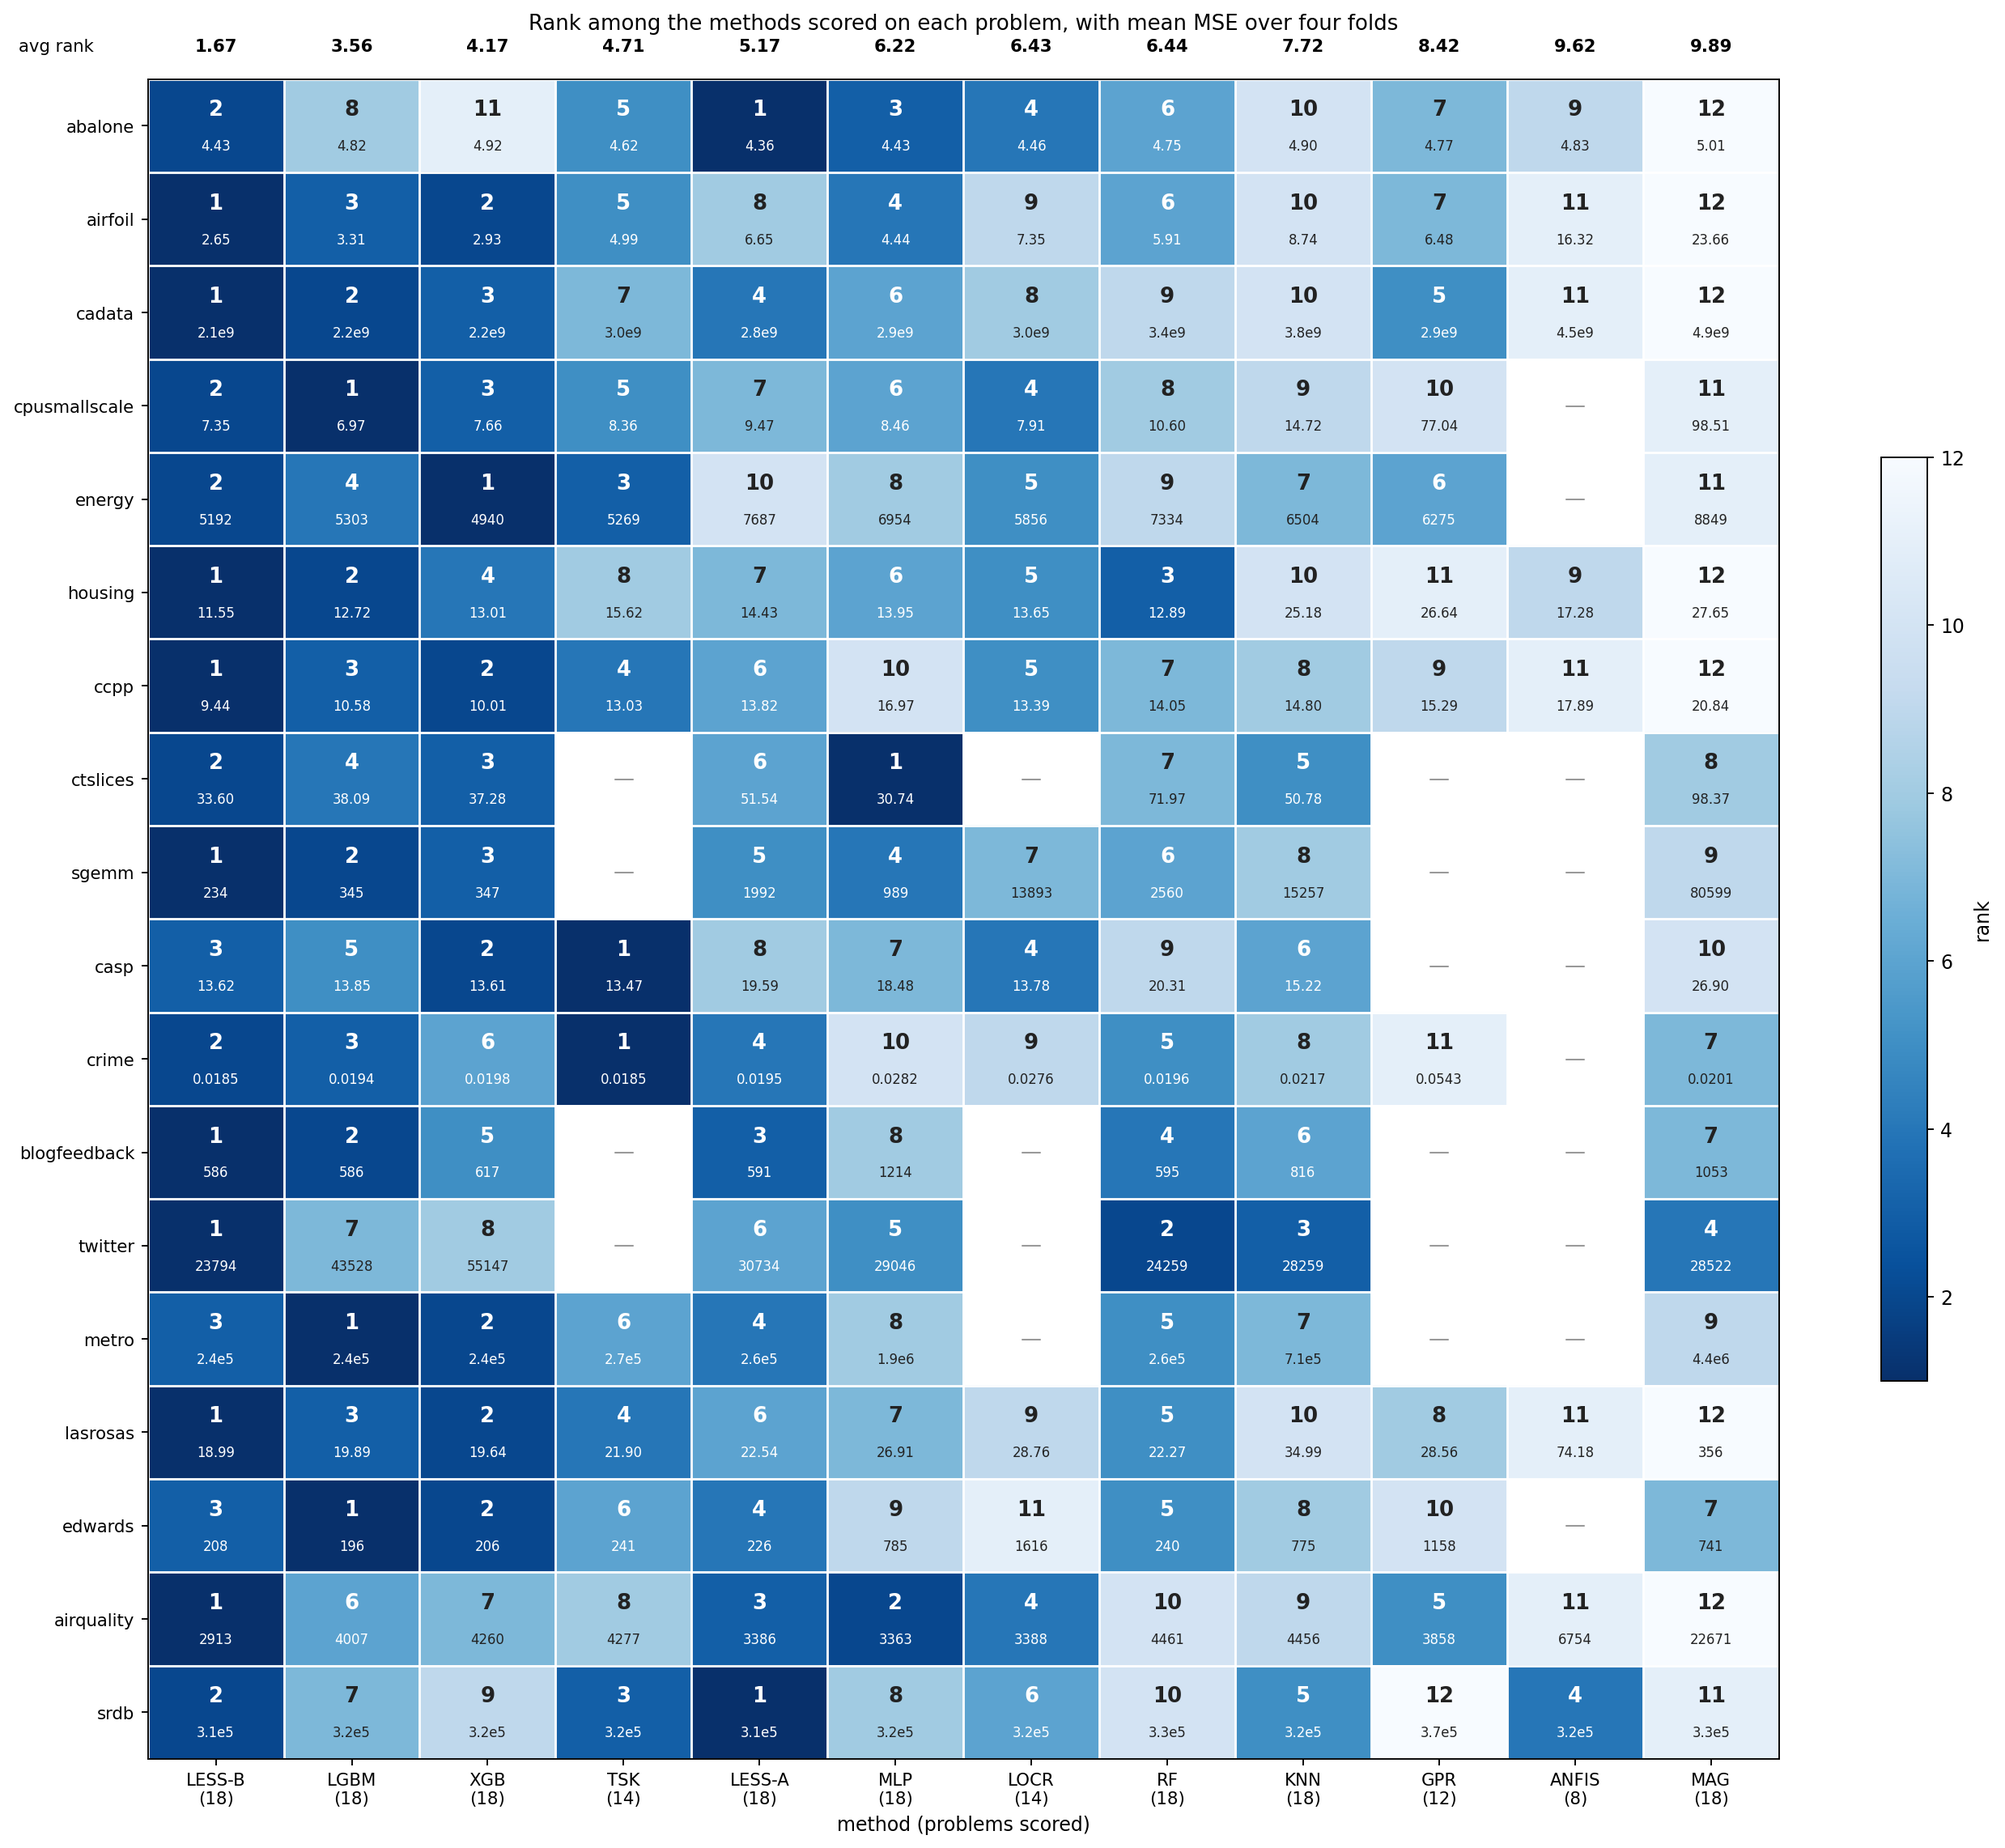
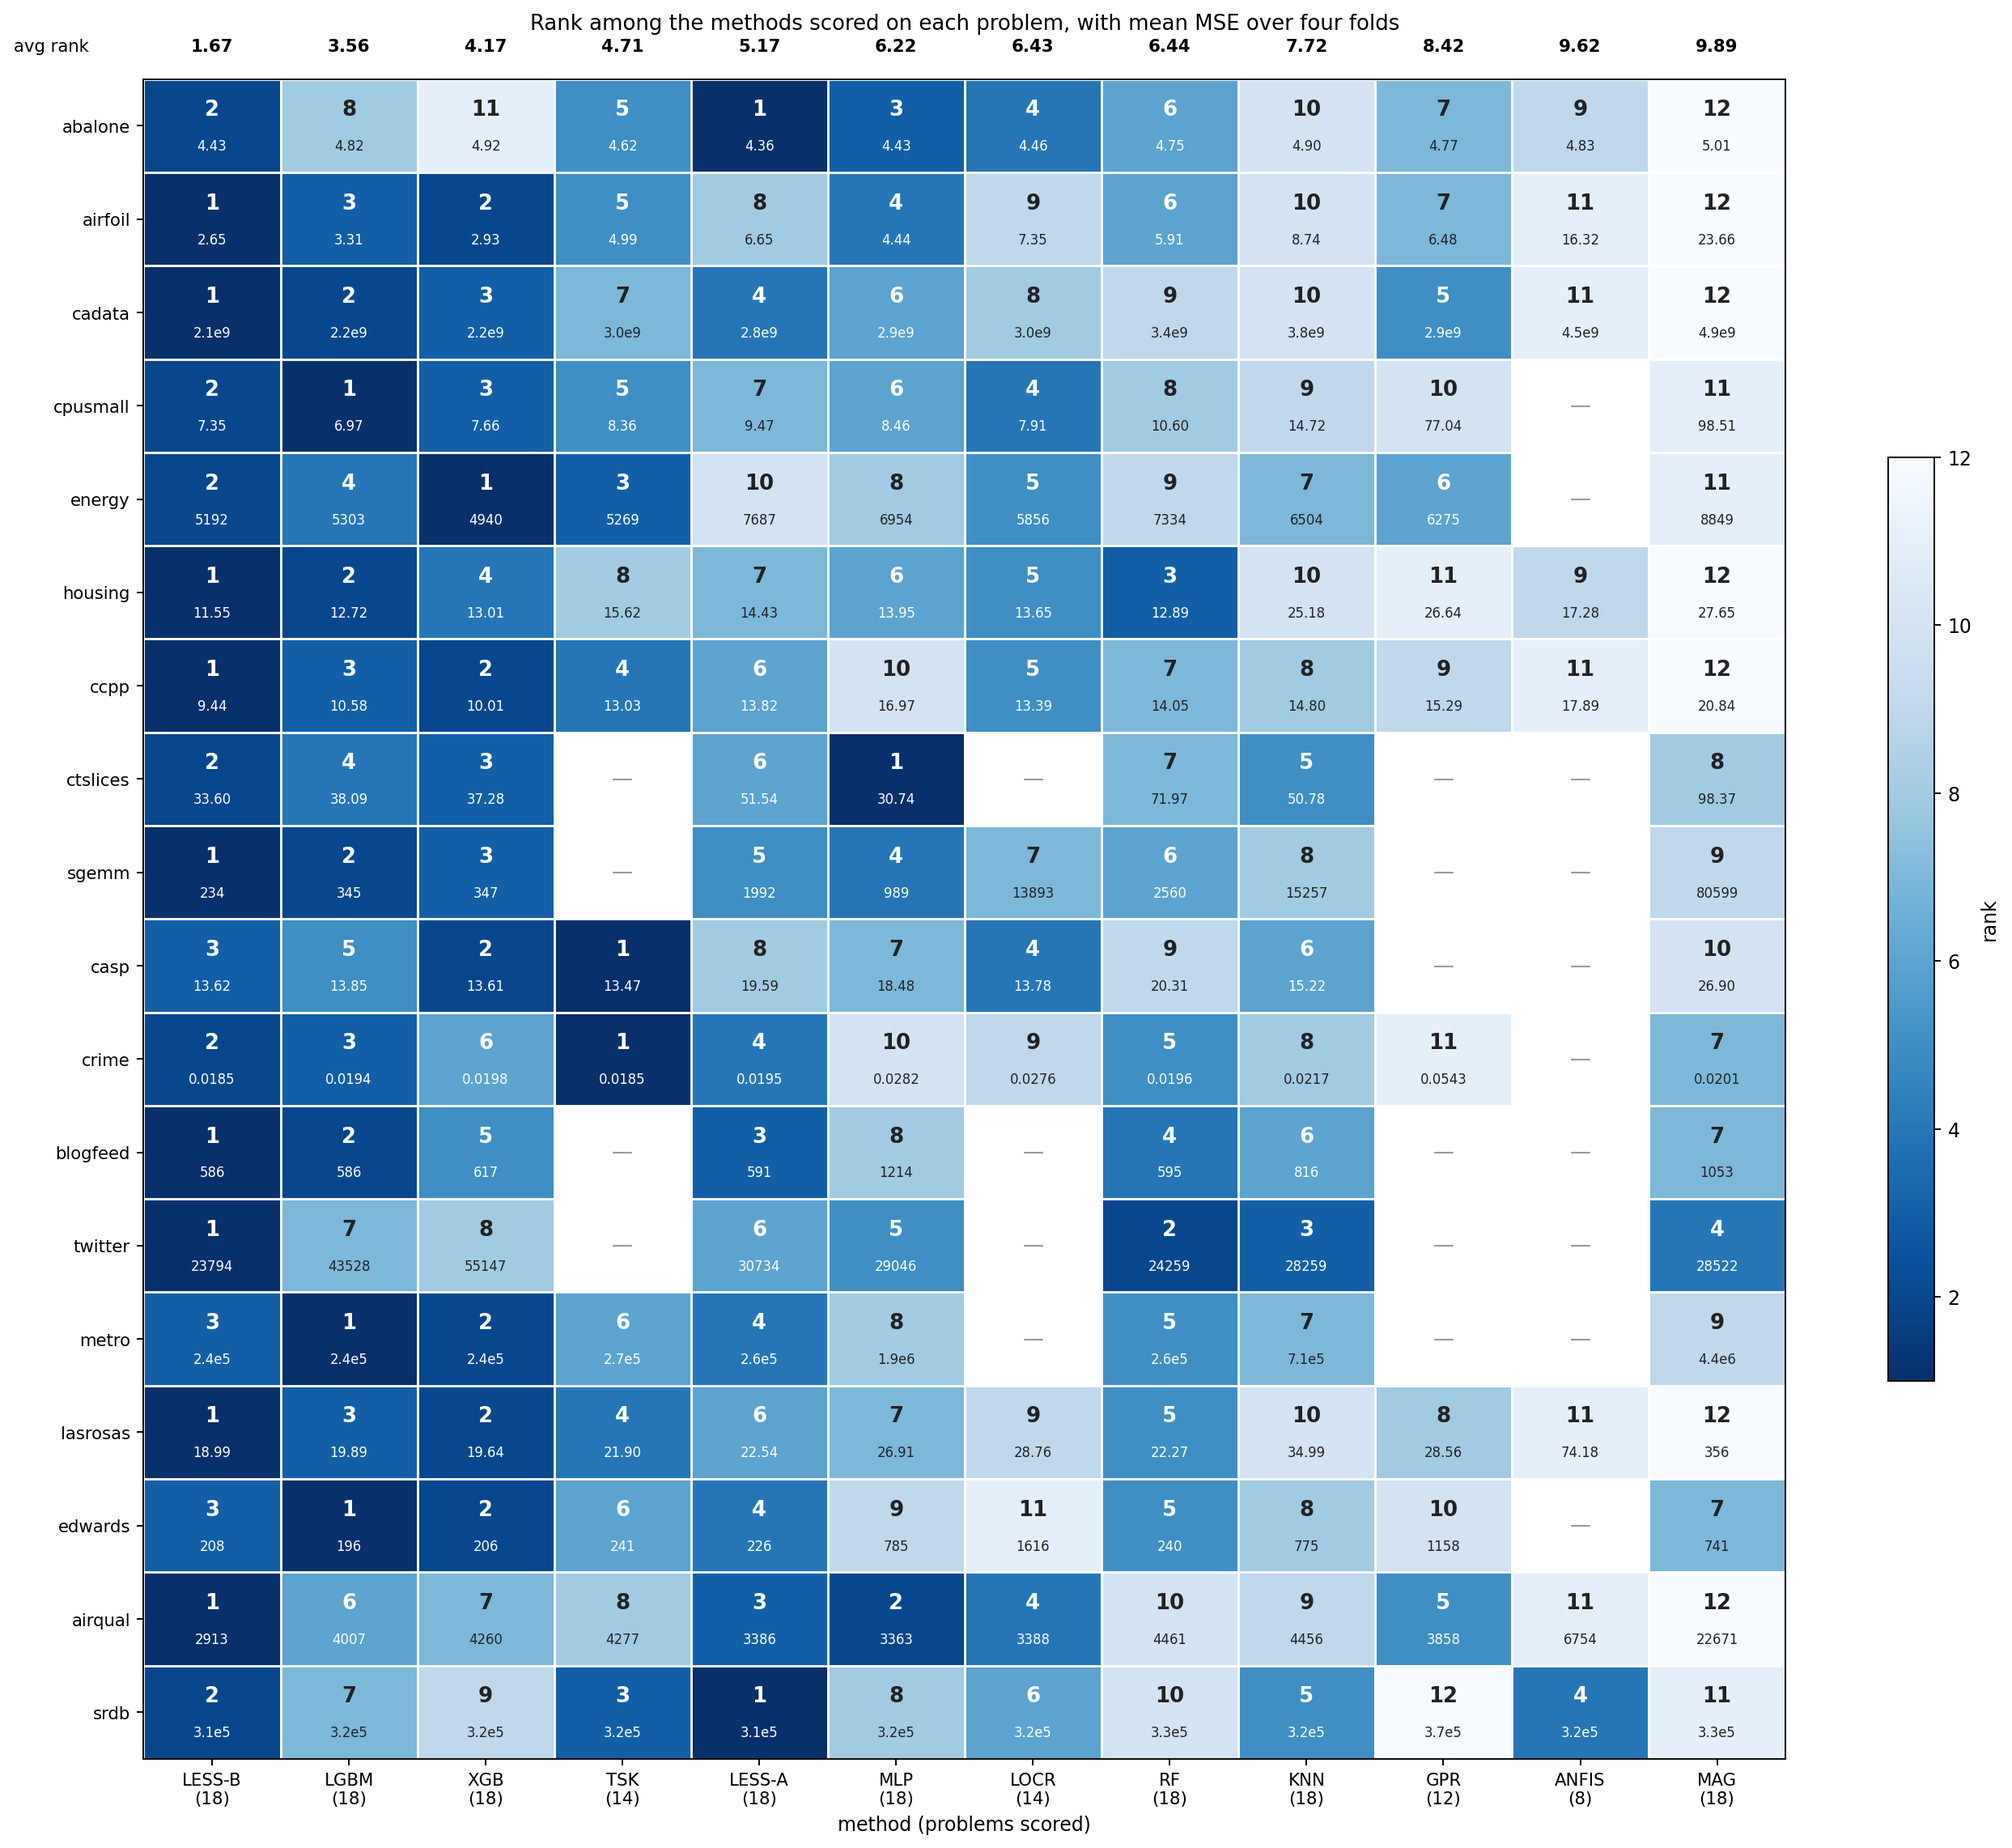
R3: dataset names in figures
Figures now use the dataset names of the text (airqual, blogfeed, cpusmall, ctslices, lowercase elsewhere). Rankings and timing figures regenerated; results unchanged.

diff --git a/plot_funcs/plot.py b/plot_funcs/plot.py
@@ -11,6 +11,7 @@ import matplotlib.pyplot as plt
 import numpy as np
 import seaborn as sns
 
+from src.names import display_name
 from src.problems import ALL_PROBLEMS
 from src.resultdirs import MAIN
 
@@ -172,7 +173,8 @@ def plot_rankings(algorithms, problems, ranking_matrix, avg_rankings,
 
     # Fix x-axis labels - Set ticks and labels properly
     ax.set_xticks(range(len(problems)))
-    ax.set_xticklabels(problems, rotation=45, ha="right", fontsize=12)
+    ax.set_xticklabels([display_name(p) for p in problems], rotation=45, ha="right",
+                       fontsize=12)
     ax.set_yticks(range(len(algorithms)))
     ax.set_yticklabels(algorithms, fontsize=12)
     ax.set_xlabel("Problem", fontsize=12)
@@ -367,7 +369,8 @@ def plot_scores(algorithms, problems, score_matrix, avg_rankings, title_suffix="
 
     # Customize axes
     ax.set_xticks(range(len(problems)))
-    ax.set_xticklabels(problems, rotation=45, ha="right", fontsize=10)
+    ax.set_xticklabels([display_name(p) for p in problems], rotation=45, ha="right",
+                       fontsize=10)
     ax.set_yticks(range(len(algorithms)))
     ax.set_yticklabels(algorithms, fontsize=10)
     ax.set_xlabel("Problem", fontsize=10)
@@ -477,7 +480,7 @@ def plot_problem_specific_results(all_results):
         )
 
         # Customize the plot
-        ax.set_title(f"{problem_name}", fontweight="bold", fontsize=14)
+        ax.set_title(display_name(problem_name), fontweight="bold", fontsize=14)
         ax.set_xlabel("Algorithm", fontsize=12)
         ax.set_ylabel("Problem Score (MSE)", fontsize=12)
         ax.set_xticks(range(len(algorithms)))

diff --git a/plot_funcs/timing_plot.py b/plot_funcs/timing_plot.py
@@ -9,6 +9,7 @@ import os
 import matplotlib.pyplot as plt
 import pandas as pd
 
+from src.names import display_name
 from src.resultdirs import TIMING
 
 # A bar of zero cannot be drawn on a log axis, so readings below FLOOR are
@@ -82,7 +83,7 @@ def plot_timing_results():
             ax.set_yscale("log")
             ax.set_xlabel("Number of Subsets", fontsize=16)
             ax.set_ylabel("Time (seconds, log scale)", fontsize=16)
-            ax.set_title(f"{problem_name}: LESS Fit and Predict", fontsize=18)
+            ax.set_title(f"{display_name(problem_name)}: LESS Fit and Predict", fontsize=18)
             ax.tick_params(labelsize=14)
             ax.grid(True, which="both", ls="--", linewidth=0.5)
             ax.legend(fontsize=14)
@@ -142,7 +143,7 @@ def plot_timing_results():
             ax.set_xlim(-0.8, len(df) - 0.2)
             ax.set_ylabel("Time (seconds, log scale)", fontsize=18)
             ax.set_xlabel("")
-            ax.set_title(f"{problem_name}: Fit and Predict", fontsize=20)
+            ax.set_title(f"{display_name(problem_name)}: Fit and Predict", fontsize=20)
             ax.tick_params(axis="y", labelsize=16)
             ax.legend(fontsize=12, ncol=2)
             fig.tight_layout()

diff --git a/plot_funcs/plot_incremental.py b/plot_funcs/plot_incremental.py
@@ -7,6 +7,7 @@ import matplotlib.pyplot as plt
 import numpy as np
 import seaborn as sns
 
+from src.names import display_name
 from src.resultdirs import INCREMENTAL
 
 # Set up plotting style
@@ -64,11 +65,8 @@ def _complete_problems(result_dir, n_arms=8, n_folds=4):
 
 
 def _label(name):
-    """Short axis label: eighteen names do not fit at full length."""
-    key = name.replace("_GROUPED", "").lower()
-    short = {"cpusmallscale": "cpusmall", "blogfeedback": "blogfeed",
-             "airquality": "airqual"}
-    return short.get(key, key)
+    """Axis label: the paper name of the problem."""
+    return display_name(name)
 
 
 PROBLEMS = _complete_problems(INCREMENTAL)

diff --git a/plot_funcs/plot_ablation.py b/plot_funcs/plot_ablation.py
@@ -7,6 +7,7 @@ import matplotlib.pyplot as plt
 import numpy as np
 import seaborn as sns
 
+from src.names import display_name
 from src.resultdirs import ABLATION
 
 # Set plot style
@@ -66,11 +67,8 @@ def _complete_problems(result_dir, n_arms=8, n_folds=4):
 
 
 def _label(name):
-    """Short axis label: eighteen names do not fit at full length."""
-    key = name.replace("_GROUPED", "").lower()
-    short = {"cpusmallscale": "cpusmall", "blogfeedback": "blogfeed",
-             "airquality": "airqual"}
-    return short.get(key, key)
+    """Axis label: the paper name of the problem."""
+    return display_name(name)
 
 
 def load_results(save_dir=ABLATION):

diff --git a/plot_funcs/plot_variants.py b/plot_funcs/plot_variants.py
@@ -6,6 +6,7 @@ import os
 import matplotlib.pyplot as plt
 import numpy as np
 
+from src.names import display_name
 from src.resultdirs import VARIANTS
 
 # Set up plotting style
@@ -57,11 +58,8 @@ def _complete_problems(result_dir, n_arms=8, n_folds=4):
 
 
 def _label(name):
-    """Short axis label: the long names collide even when turned."""
-    key = name.replace("_GROUPED", "").lower()
-    short = {"cpusmallscale": "cpusmall", "blogfeedback": "blogfeed",
-             "airquality": "airqual"}
-    return short.get(key, key)
+    """Axis label: the paper name of the problem."""
+    return display_name(name)
 
 
 problems = _complete_problems(VARIANTS)

diff --git a/tools/plot_ranks_mse.py b/tools/plot_ranks_mse.py
@@ -19,6 +19,7 @@ import matplotlib.pyplot as plt
 import numpy as np
 import pandas as pd
 
+from src.names import display_name
 from src.problems import ALL_PROBLEMS
 from src.resultdirs import MAIN
 
@@ -105,7 +106,7 @@ def main():
     ax.set_xticks(range(len(order)))
     ax.set_xticklabels([f"{m}\n({coverage[m]})" for m in order], fontsize=9)
     ax.set_yticks(range(len(problems)))
-    ax.set_yticklabels([p.replace("_GROUPED", "").lower() for p in problems], fontsize=9)
+    ax.set_yticklabels([display_name(p) for p in problems], fontsize=9)
     ax.set_xlabel("method (problems scored)", fontsize=10)
 
     avg = ranks.mean()

diff --git a/src/names.py b/src/names.py
@@ -1,0 +1,9 @@
+"""Dataset names as they appear in the paper's text, tables and figures."""
+
+SHORT = {"airquality": "airqual", "blogfeedback": "blogfeed", "cpusmallscale": "cpusmall"}
+
+
+def display_name(problem):
+    """Paper name of a problem key, e.g. CTSLICES_GROUPED -> ctslices."""
+    key = problem.replace("_GROUPED", "").lower()
+    return SHORT.get(key, key)
